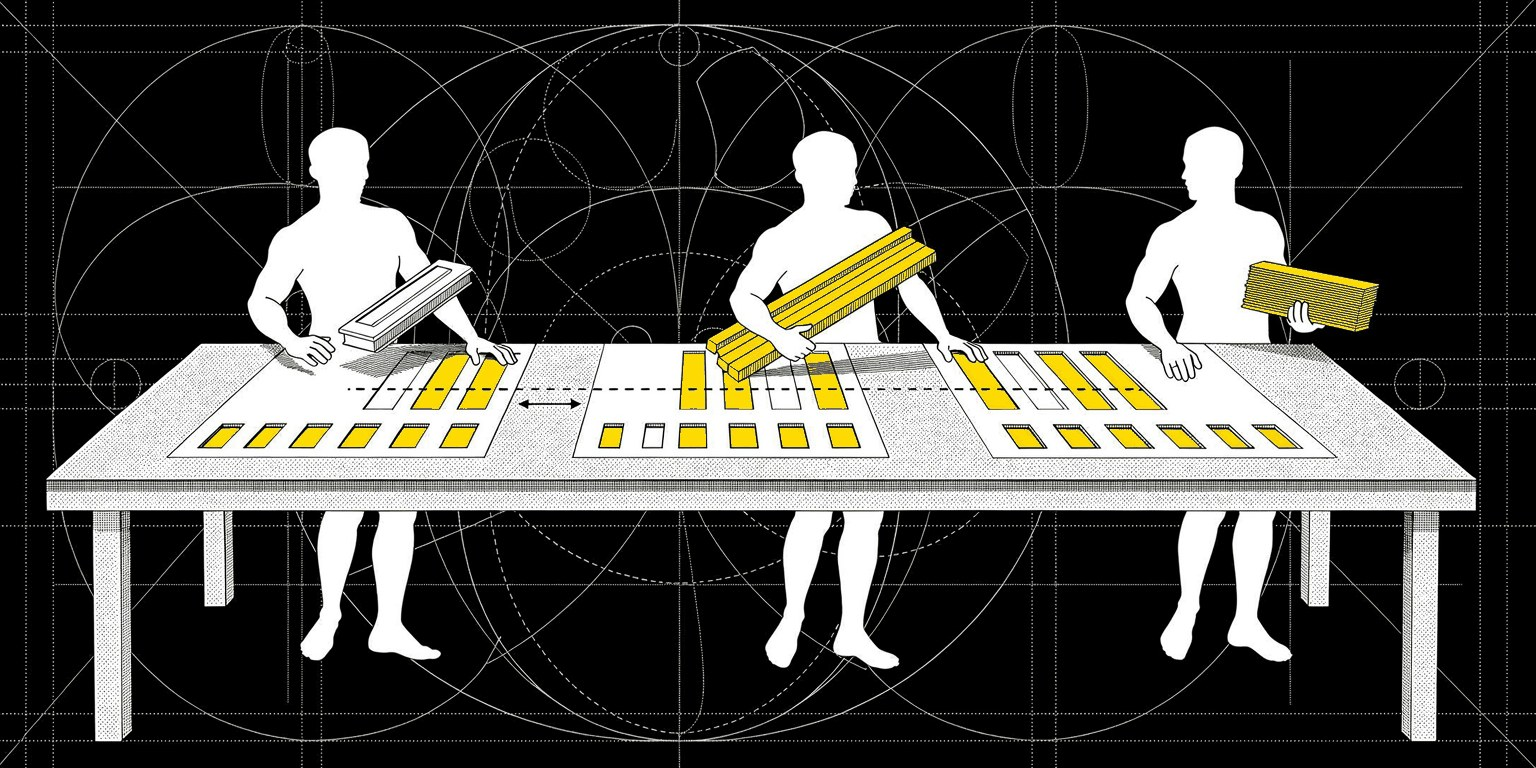
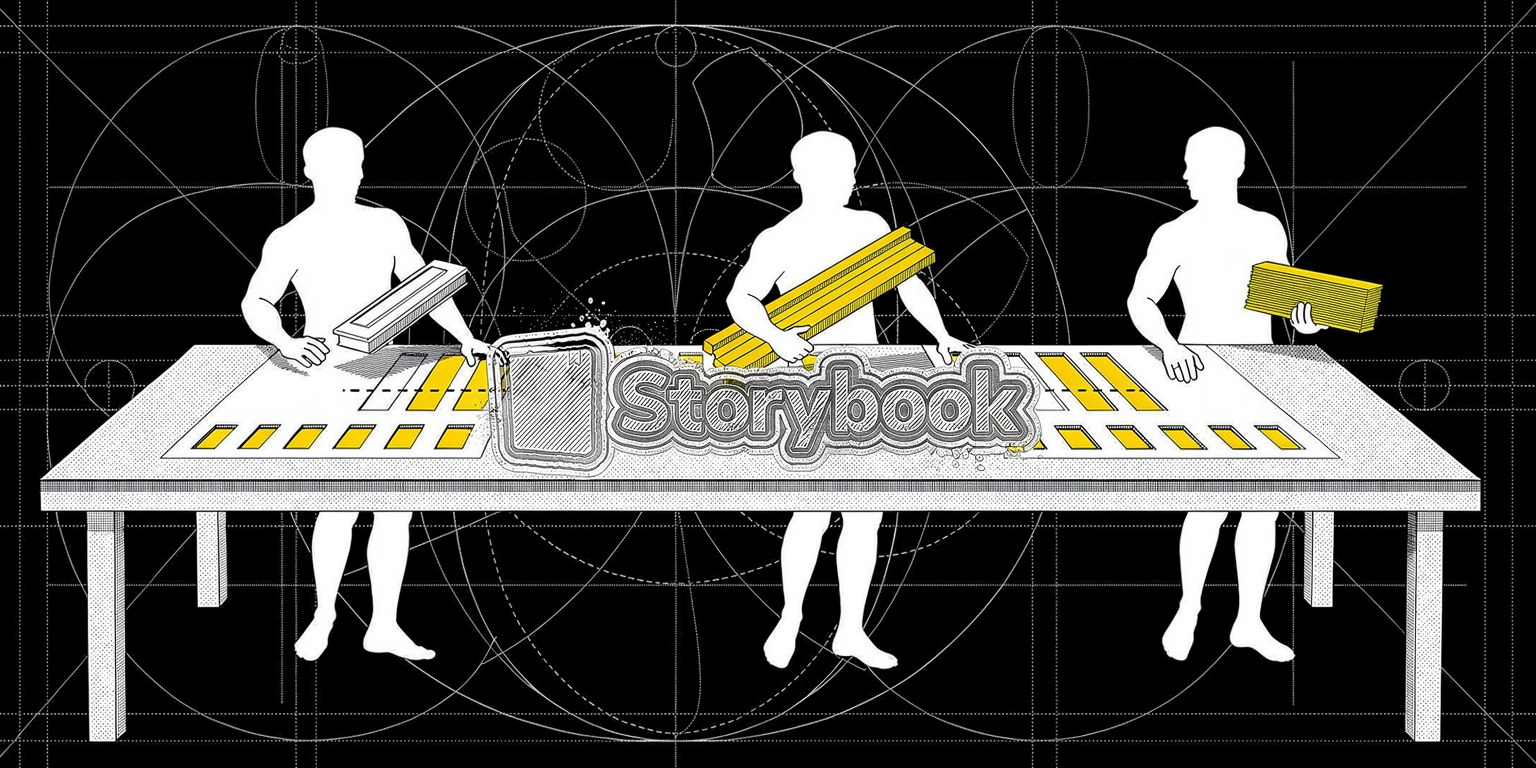
feat(blog): give every cover its recognizable element, engraved into the plate
The TS7 cover had a logo worked into the drawing; the other seven now get one too,
each found with an image search first and then run through the three-pass blend
recipe (restyle the mark into the hand, place it with the base drawing as a
reference, read it back).

| post | element | source |
| --- | --- | --- |
| The Accessibility of Lion | International Symbol of Access | Wikimedia Commons |
| Controlling exports | npm mark, as a sign on the wall of boxes | Wikimedia Commons |
| Extending Lion Documentation | Storybook wordmark | storybookjs/brand |
| ING open sources Lion | Lit flame | lit/lit |
| Introducing lions website | Eleventy opossum | 11ty/11ty-logo |
| Lion without polyfills | Chromium mark | Wikimedia Commons |
| Introducing Lion UI | the Lion mark itself | this repo, public/logo.svg |
| Migrating Lion to TypeScript 7 | TS badge + Go gopher | Wikimedia, plus a drawn gopher |

Where Commons has the mark it is the search hit loaded straight from there; where it
does not (Storybook, Lit, Eleventy, open-wc) the project's own brand asset is used,
located with a web search. Two placements were retaken after reading the emblems back:
npm went in as an engraved sign on the wall instead of a watermark (a watermark lost
its letters) and the web-component glyph was replaced by the Chromium mark, which is
both recognizable and the reason the polyfill existed.

A read-back pass now names the emblem on all eight covers (npm, Storybook, 11ty, Lit
[…]

diff --git a/docs/illustrations-style.md b/docs/illustrations-style.md
@@ -137,6 +137,28 @@ TypeScript 7 and the Go compiler is the ordinary case; if these covers are reuse
 both (a caption or a credit line in the post footer) or swap the mark for a house-drawn stand-in.
 Never ship the marks in a context that implies endorsement.
 
+## Which mark each cover carries
+
+Every cover gets one recognizable element, found with an image search and engraved into the plate the
+way the recipe above describes. The post and its mark:
+
+| post                           | recognizable element                                           | source                         |
+| ------------------------------ | -------------------------------------------------------------- | ------------------------------ |
+| The Accessibility of Lion      | International Symbol of Access                                 | Wikimedia Commons              |
+| Controlling exports            | npm mark, as a sign on the wall of boxes                       | Wikimedia Commons              |
+| Extending Lion Documentation   | Storybook wordmark                                             | storybookjs/brand              |
+| ING open sources Lion          | Lit flame                                                      | lit/lit                        |
+| Introducing lions website      | Eleventy opossum                                               | 11ty/11ty-logo                 |
+| Lion without polyfills         | Chromium mark (browsers are why the polyfill existed)          | Wikimedia Commons              |
+| Introducing Lion UI            | the Lion mark itself                                           | this repo, `public/logo.svg`   |
+| Migrating Lion to TypeScript 7 | TypeScript badge (letters cut into the gear) and the Go gopher | Wikimedia, plus a drawn gopher |
+
+Licences to keep in mind if the covers are reused outside these posts: the npm logo is npm, Inc.'s,
+Storybook's brand assets are covered by their own brand terms, Lit is Google's, Eleventy's opossum is
+Zach Leatherman's, the Chromium mark is CC BY, and the access symbol is a public-domain-standard
+mark. Keep the credit line in the post footer when a cover is reused, and never drop one of these
+marks into a context that implies the project endorses something.
+
 ## Checklist before shipping a drawing
 
 - [ ] Plate is one black field; the scene spans the canvas with no large empty margins.
